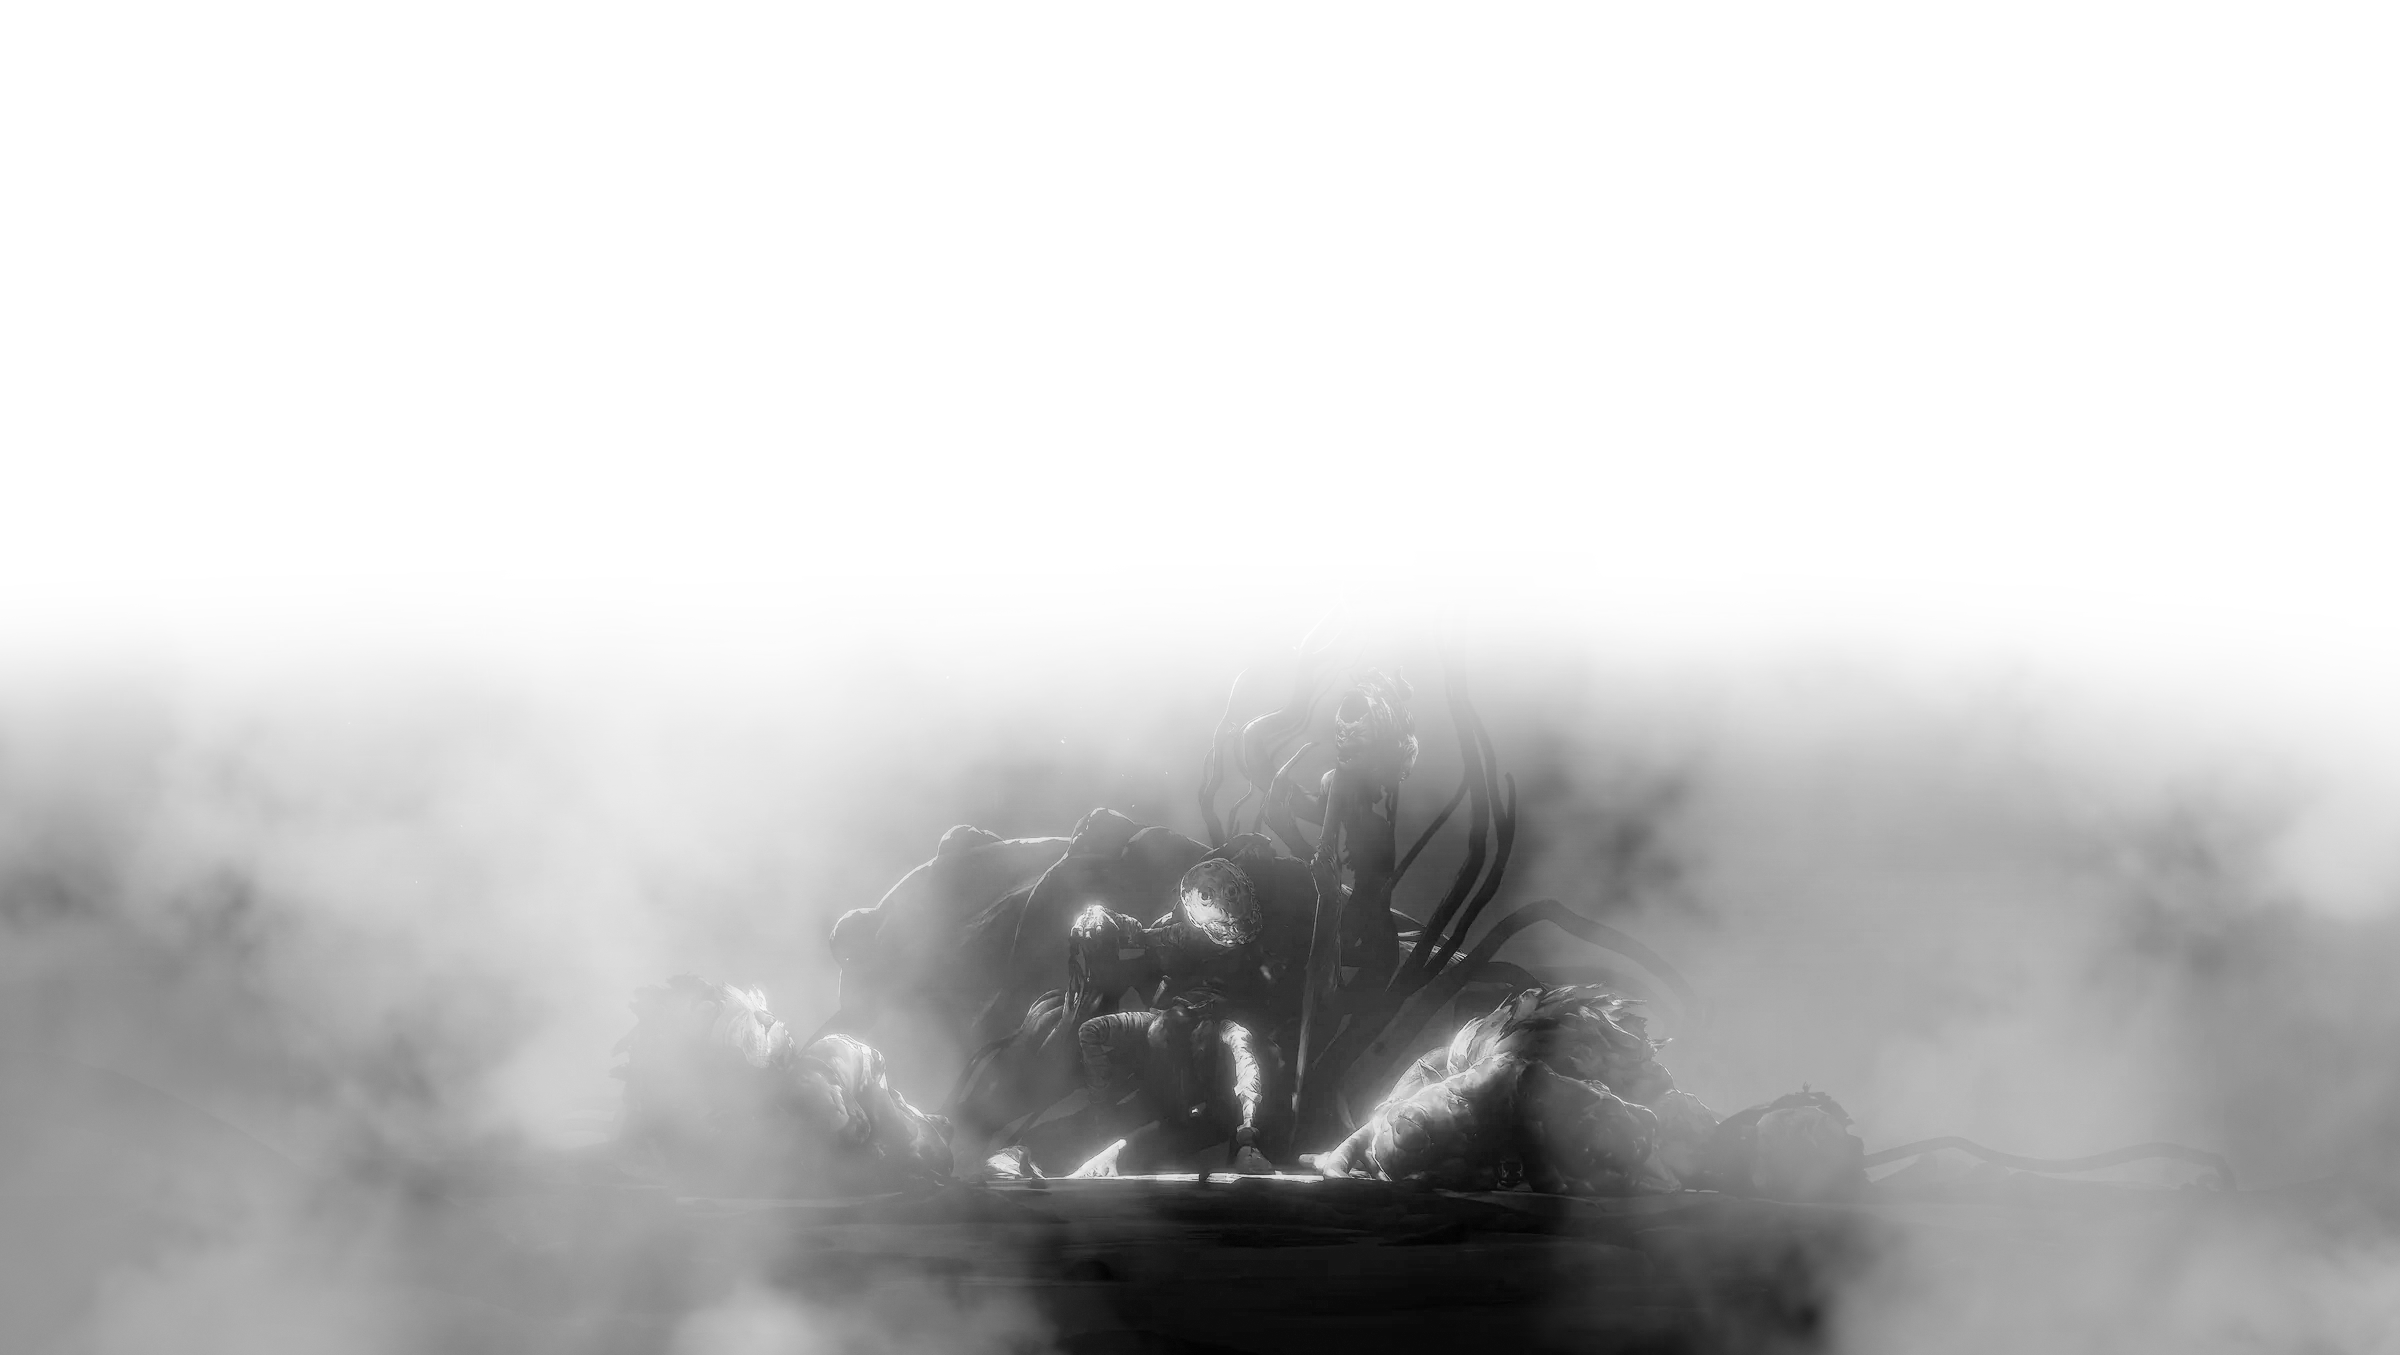
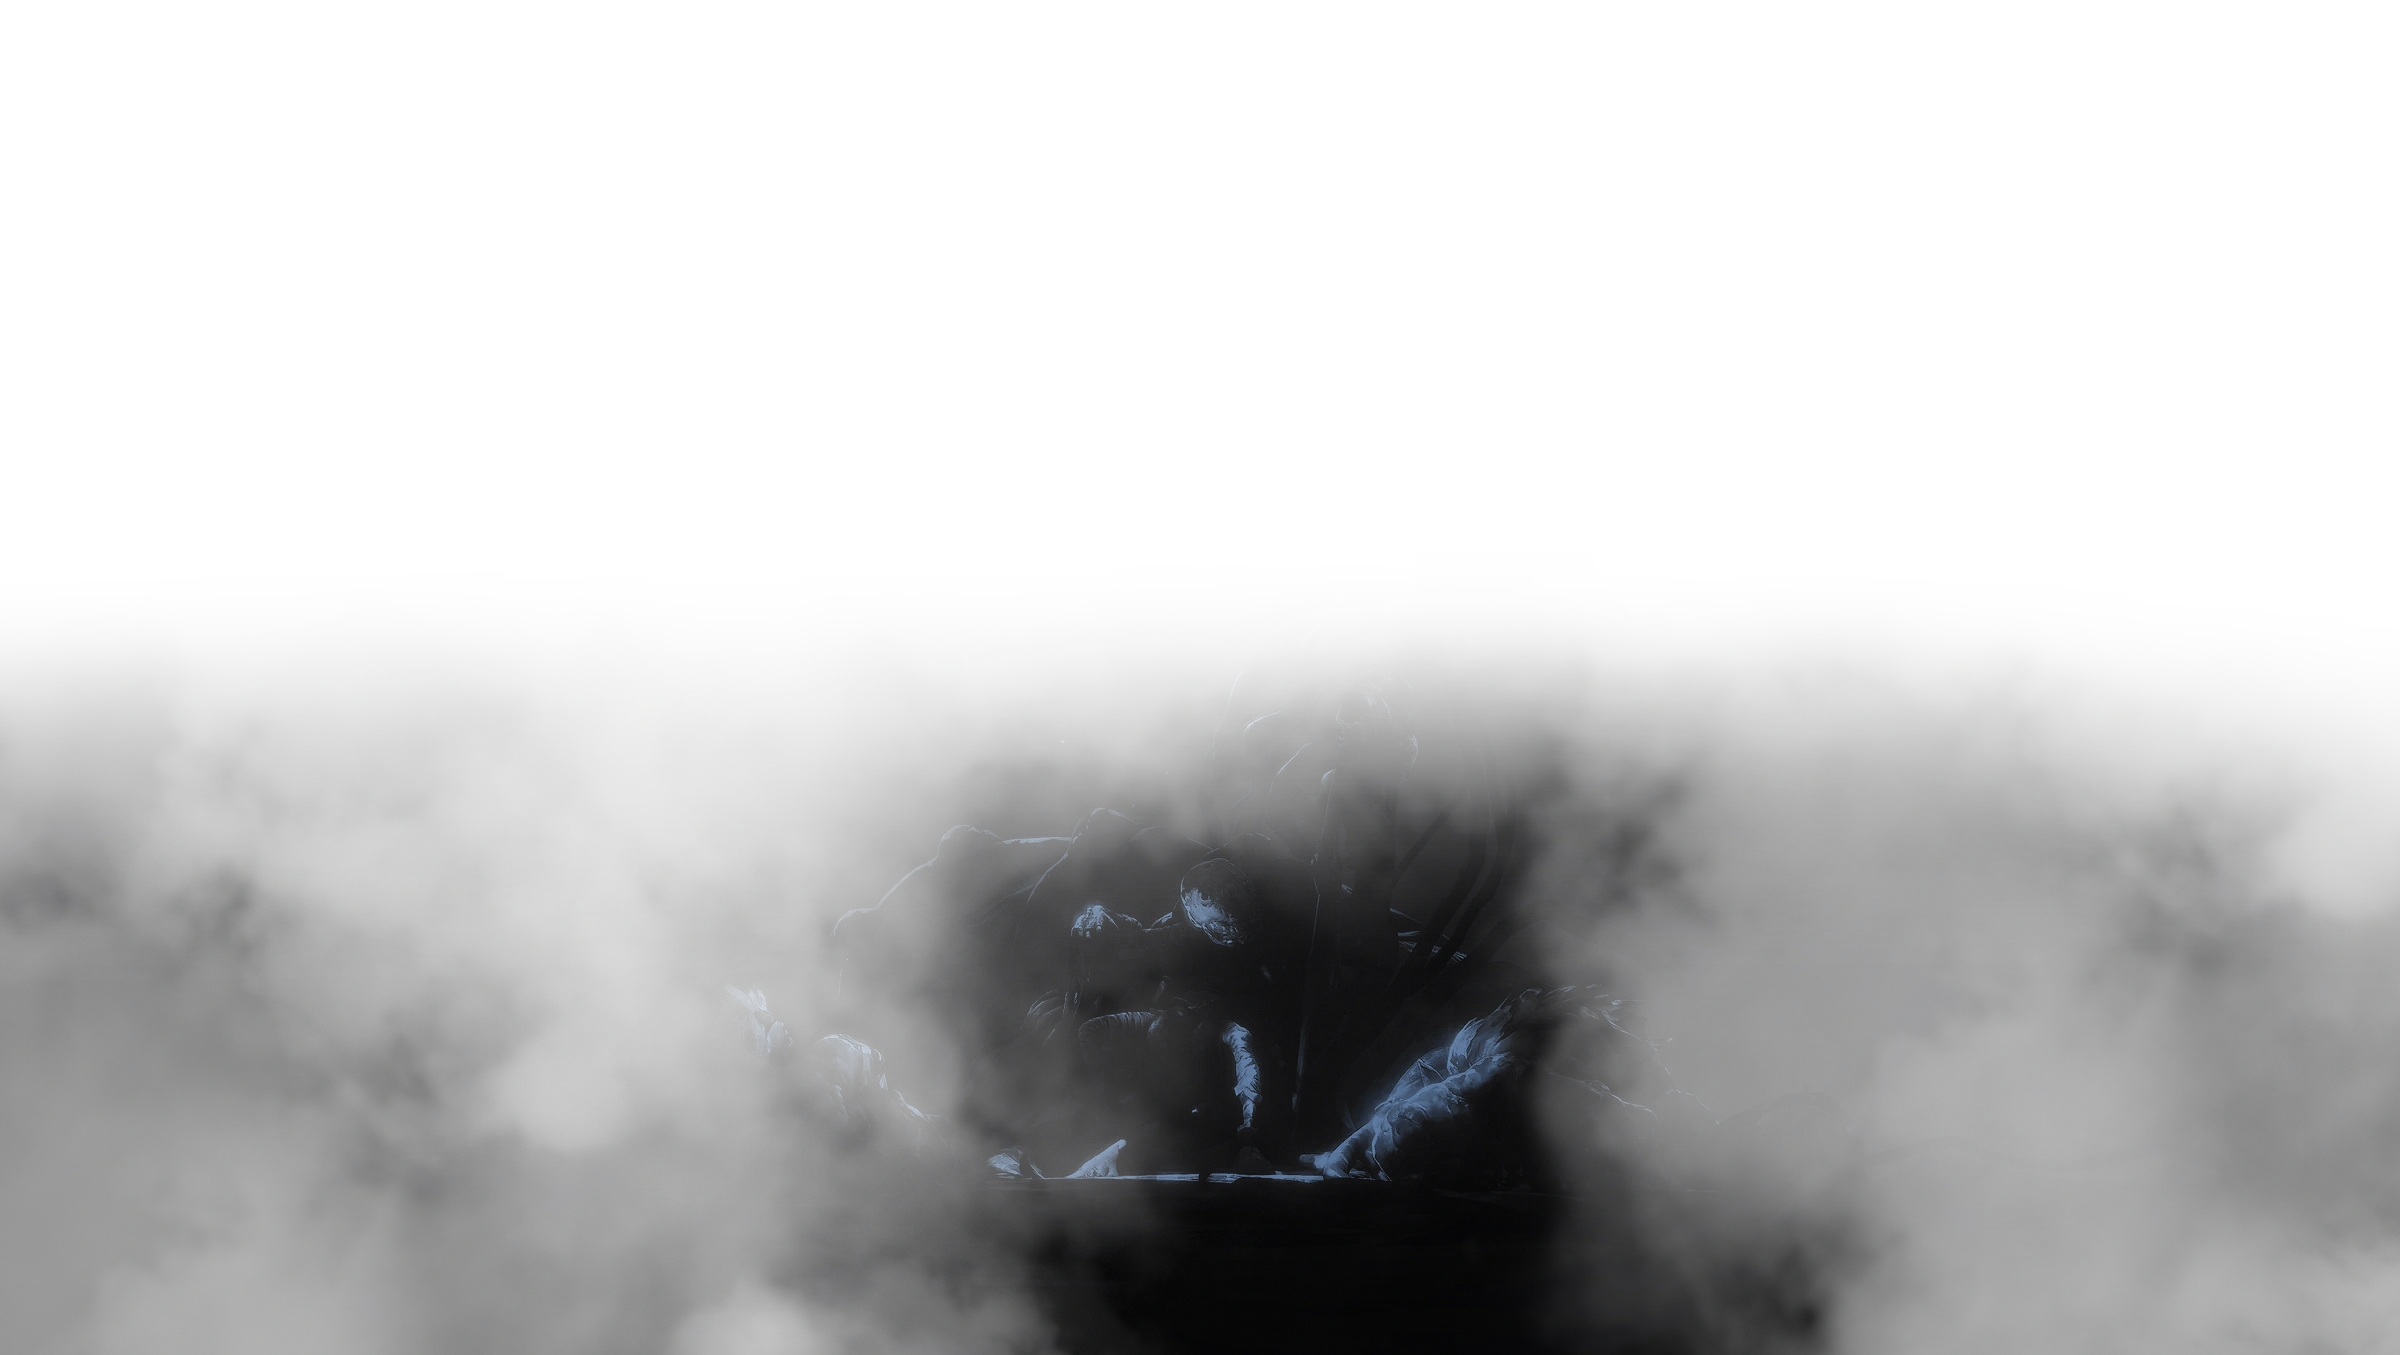
Footer art: dark neutral with blue highlights

Changed region(s): [[0.4062, 0.5889, 0.6875, 0.8989], [0.3125, 0.7439, 0.375, 0.8059]]

diff --git a/index.html b/index.html
@@ -687,7 +687,7 @@ window.__gcCount=(function(){ var last=location.pathname+location.hash; return f
 <script data-goatcounter="https://wickeddossier.goatcounter.com/count" async src="//gc.zgo.at/count.js"></script>
 <style id="bg-dim">:root{--bgdim:.08;--grounddim:.2}
 body:not(.on-home) .header-bg{display:none!important}
-body:not(.on-home) .footer-bg,body:not(.on-home) footer .footer-bg{filter:grayscale(1) sepia(1) hue-rotate(190deg) saturate(.7) brightness(.5)!important;z-index:-2!important;display:block!important}
+body:not(.on-home) .footer-bg,body:not(.on-home) footer .footer-bg{filter:none!important;z-index:-2!important;display:block!important}
 body::before{background:radial-gradient(90% 70% at 50% 40%,#0b0b0c 0%,#070708 55%,#040405 100%),#040405!important}
 #vellum{opacity:var(--grounddim)!important}
 body::after{opacity:.1!important}
